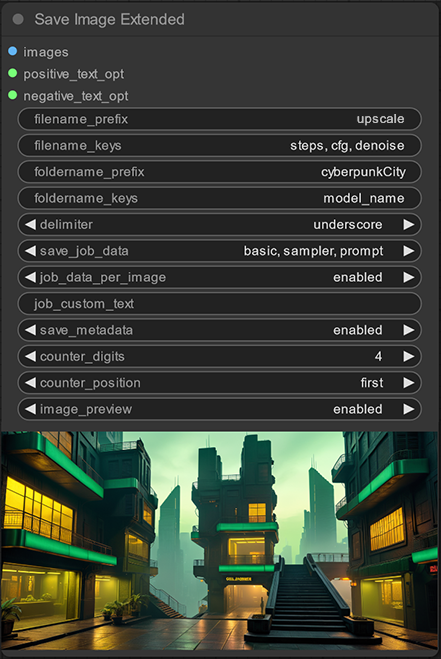
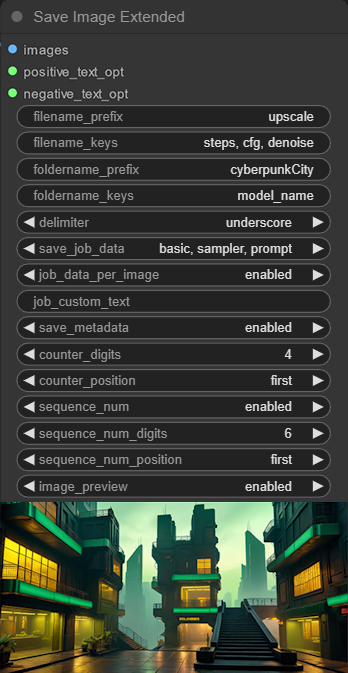
Adding sequence number functionality, closes #5

diff --git a/save_image_extended.py b/save_image_extended.py
@@ -14,6 +14,8 @@ original_locale = locale.setlocale(locale.LC_TIME, '')
 
 import folder_paths
 
+SEQUENCE_NUM_ID = 'sn#'
+
 class SaveImageExtended:
 	def __init__(self):
 		self.output_dir = folder_paths.get_output_directory()
@@ -36,6 +38,9 @@ class SaveImageExtended:
 				'save_metadata': (['disabled', 'enabled'], {'default': 'enabled'}),
 				'counter_digits': ([2, 3, 4, 5, 6], {'default': 3}),
 				'counter_position': (['first', 'last'], {'default': 'last'}),
+				'sequence_num': (['disabled', 'enabled'], {'default': 'disabled'}),
+				'sequence_num_digits': ([2, 3, 4, 5, 6], {'default': 3}),
+				'sequence_num_position': (['first', 'last'], {'default': 'first'}),
 				'image_preview': (['disabled', 'enabled'], {'default': 'enabled'}),
 			},
 			"optional": {
@@ -59,28 +64,31 @@ class SaveImageExtended:
 		return str(subfolder_path)
 
 	# Get current counter number from file names
-	def get_latest_counter(self, folder_path, filename_prefix, counter_digits, counter_position='last'):
+	def get_latest_counter(self, type, folder_path, filename_prefix, counter_digits, counter_position='last'):
 		counter = 1
 		if not os.path.exists(folder_path):
-			print(f"Folder {folder_path} does not exist, starting counter at 1.")
+			print(f"Folder {folder_path} does not exist, starting {type} at 1.")
 			return counter
 
 		try:
 			files = [f for f in os.listdir(folder_path) if f.endswith('.png')]
 			if files:
-				if counter_position == 'last':
-					counters = [int(f[-(4 + counter_digits):-4]) for f in files if f.startswith(filename_prefix)]
-				elif counter_position == 'first':
-					counters = [int(f[:counter_digits]) for f in files if f[counter_digits +1:].startswith(filename_prefix)]
+				if type == 'counter':
+					if counter_position == 'last':
+						counters = [int(f[-(4 + counter_digits):-4]) for f in files if f.startswith(filename_prefix)]
+					elif counter_position == 'first':
+						counters = [int(f[:counter_digits]) for f in files if f[counter_digits +1:].startswith(filename_prefix)]
+					else:
+						print(f"Invalid {type}_position. Using 'last' as default.")
+						counters = [int(f[-(4 + counter_digits):-4]) for f in files if f.startswith(filename_prefix)]
 				else:
-					print("Invalid counter_position. Using 'last' as default.")
-					counters = [int(f[-(4 + counter_digits):-4]) for f in files if f.startswith(filename_prefix)]
-
+					sequence_num_re = SEQUENCE_NUM_ID + r'(\d+)'
+					counters = [int(match.group(1)) for f in files for match in re.finditer(sequence_num_re, f) if match]
 				if counters:
 					counter = max(counters) + 1
 
 		except Exception as e:
-			print(f"An error occurred while finding the latest counter: {e}")
+			print(f"An error occurred while finding the latest {type}: {e}")
 
 		return counter
 
@@ -260,6 +268,9 @@ class SaveImageExtended:
 	def save_images(self,
 				 counter_digits,
 				 counter_position,
+				 sequence_num,
+				 sequence_num_digits,
+				 sequence_num_position,
 				 delimiter,
 				 filename_keys,
 				 foldername_keys,
@@ -294,7 +305,11 @@ class SaveImageExtended:
 			full_output_folder, filename, _, _, custom_filename = folder_paths.get_save_image_path(custom_filename, self.output_dir, images[0].shape[1], images[0].shape[0])
 			output_path = os.path.join(full_output_folder, custom_foldername)
 			os.makedirs(output_path, exist_ok=True)
-			counter = self.get_latest_counter(output_path, filename, counter_digits, counter_position)
+			counter = self.get_latest_counter('counter', output_path, filename, counter_digits, counter_position)
+			if sequence_num == "enabled":
+				sequence_num_counter = self.get_latest_counter('sequence_num', output_path, filename, sequence_num_digits, sequence_num_position)
+			else:
+				sequence_num_counter = ''
 
 			results = list()
 			for image in images:
@@ -310,9 +325,17 @@ class SaveImageExtended:
 							metadata.add_text(x, json.dumps(extra_pnginfo[x]))
 
 				if counter_position == 'last':
-					file = f'{filename}{delimiter_char}{counter:0{counter_digits}}.png'
+					file = f'{filename}{delimiter_char}{counter:0{counter_digits}}'
 				else:
-					file = f'{counter:0{counter_digits}}{delimiter_char}{filename}.png'
+					file = f'{counter:0{counter_digits}}{delimiter_char}{filename}'
+
+				if sequence_num == "enabled":
+					if sequence_num_position == 'last':
+						file = f'{file}{delimiter_char}{SEQUENCE_NUM_ID}{sequence_num_counter:0{sequence_num_digits}}'
+					else:
+						file = f'{SEQUENCE_NUM_ID}{sequence_num_counter:0{sequence_num_digits}}{delimiter_char}{file}'
+
+				file = f'{file}.png'
 
 				image_path = os.path.join(output_path, file)
 				img.save(image_path, pnginfo=metadata, compress_level=4)

diff --git a/README.md b/README.md
@@ -26,6 +26,9 @@ git clone https://github.com/thedyze/save-image-extended-comfyui
 - `save_metadata` - Saves metadata into the image.
 - `counter_digits` - Number of digits used for the image counter. `3` = image_001.png. Will adjust the counter if files are deleted. Looks for the highest number in the folder, does not fill gaps.
 - `counter_position` - Image counter first or last in the filename.
+- `sequence_num` - Adds a per-directory sequence number to the filename.
+- `sequence_num_digits` - Number of digits used for the sequence number.
+- `sequence_num_position` - Sequence number first or last in the filename.
 - `image_preview` - Turns the image preview on and off.
 
 ## Node inputs
